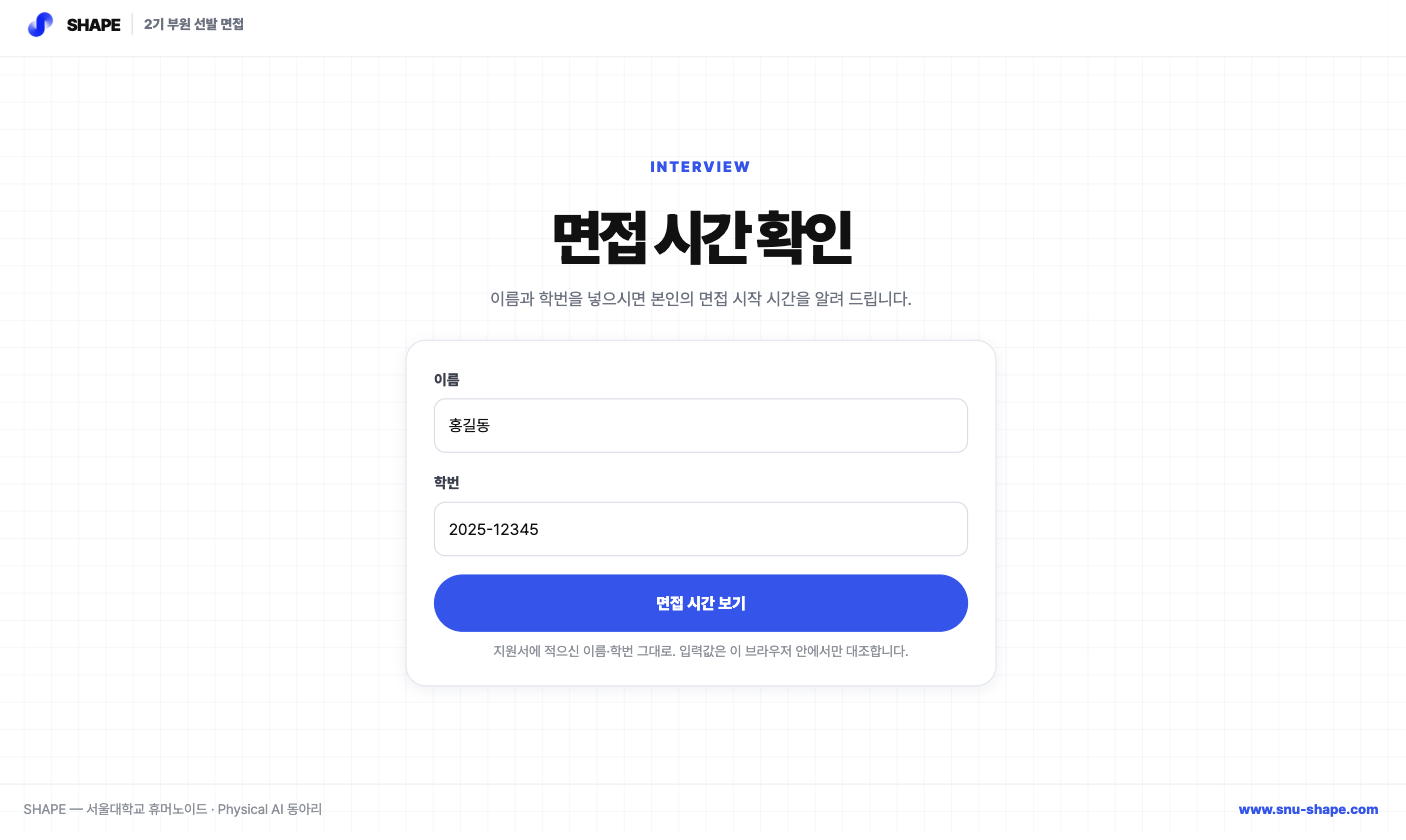
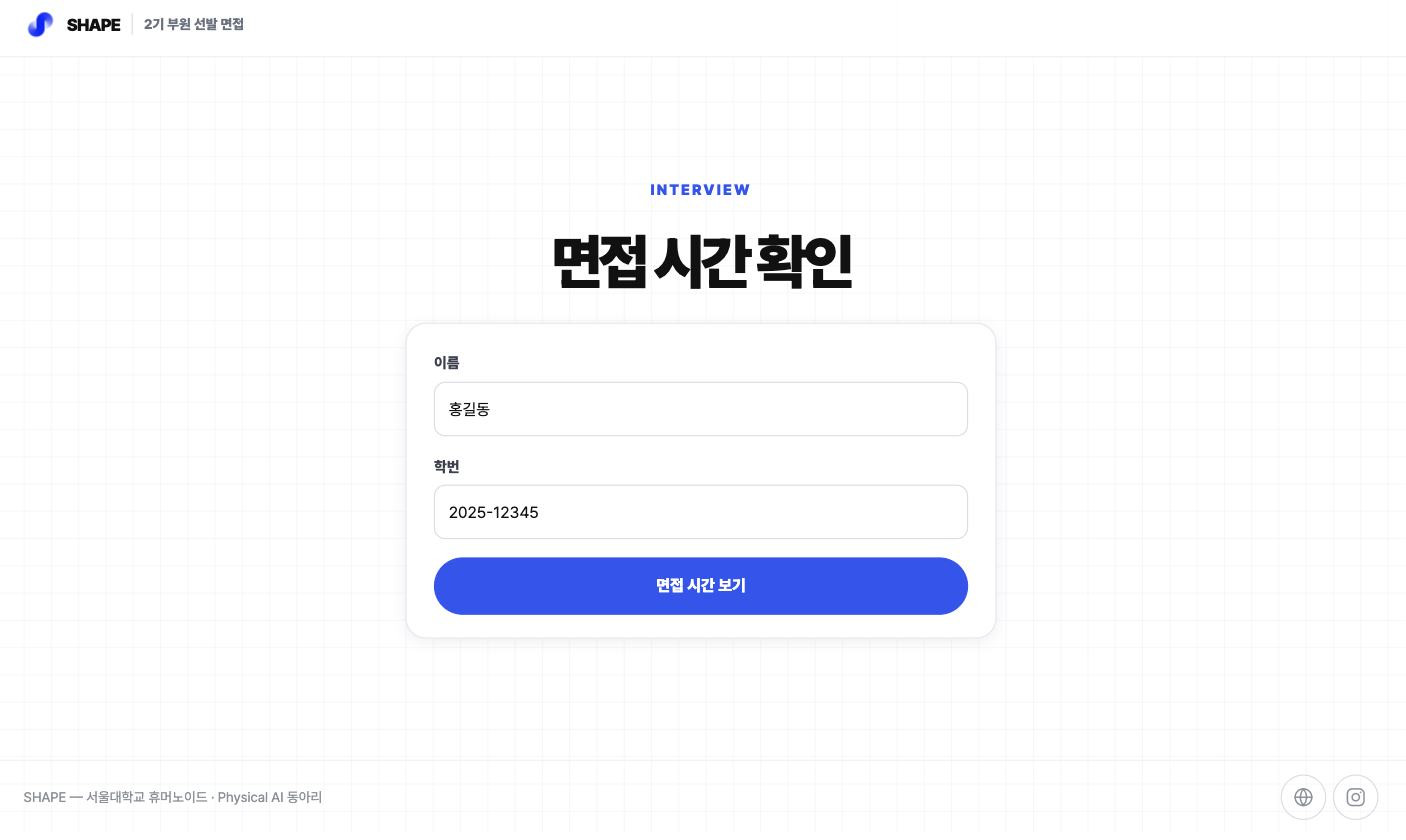
달력 저장을 문의하기로 바꾸고 바로가기 아이콘을 넣음
결과 카드의 "달력에 저장" 을 "문의하기" 로 바꿨다. 누르면 대화상자가 열려
snu.shape@gmail.com 으로 연락해 달라고 안내하고, 주소를 눌러 메일을 쓰거나
복사할 수 있다. 클립보드를 못 쓰는 환경에서는 주소를 선택해 두어 길게 눌러
복사하게 했다. 시간이 잡히지 않은 사람과 명단에서 못 찾은 사람에게도 같은
버튼을 붙였다 — 그 두 화면이 원래 연락을 요청하던 자리다.

.ics 를 만들던 코드(utcStamp, RFC 5545 줄 접기, saveIcs)는 전부 지웠다.

꼬리글에 SHAPE 웹사이트와 인스타그램 바로가기를 선 아이콘으로 넣었다. 인스타
주소에 붙어 있던 igsh 공유 추적 토큰은 뺐다. 디자인 규칙상 이모지를 아이콘으로
쓰지 않으므로 SVG 로 그렸다.

머리말의 "이름과 학번을 넣으시면…" 과 입력칸 아래 "지원서에 적으신 이름·학번
그대로…" 두 문구는 지웠다.

고친 것: 결과 카드에 제목 아래 여백이 없어 "면접 시간 확인" 을 덮고 있었다.
입력칸과 같은 margin-top 을 주고, 세로가 짧아질 때도 둘이 같이 줄게 했다.

13가지 크기에서 다시 확인했다. 세로가 짧아진 꼬리글 때문에 가로로 눕힌
740x360 의 넘침이 20px 에서 39px 로 늘었고, 나머지는 그대로 0 이다.

diff --git a/assets/app.js b/assets/app.js
@@ -11,8 +11,8 @@
   'use strict';
 
   var PLACE = '서울대학교 44-1동 401-1호';
+  var MAIL = 'snu.shape@gmail.com';
   var ARRIVE_EARLY = 10; // 분
-  var CAL_MINUTES = 30;  // 달력에 넣을 때만 쓰는 길이
 
   var DB = window.SHAPE_SCHEDULE;
   var form = document.getElementById('lookup');
@@ -21,6 +21,7 @@
   var errEl = document.getElementById('formError');
   var btn = document.getElementById('submitBtn');
   var out = document.getElementById('result');
+  var dialog = document.getElementById('contactDialog');
   var enc = new TextEncoder();
   var busy = false;
 
@@ -102,7 +103,11 @@
     return /[가-힣]/.test(v) && !/[A-Za-z]/.test(v) ? v.replace(/\s+/g, '') : v;
   }
 
-  var AGAIN = '<button type="button" class="button secondary" id="againBtn">다시 조회</button>';
+  var ACTIONS =
+    '<div class="result-actions">' +
+      '<button type="button" class="button secondary" id="contactBtn">문의하기</button>' +
+      '<button type="button" class="button secondary" id="againBtn">다시 조회</button>' +
+    '</div>';
 
   /** 입력칸을 감추고 그 자리에 결과를 놓습니다. */
   function show(html) {
@@ -112,8 +117,8 @@
     out.setAttribute('tabindex', '-1');
     out.focus({ preventScroll: true });      // 모바일 자판을 닫고 낭독기에 결과를 읽힙니다
     out.scrollIntoView({ block: 'nearest' }); // 세로가 아주 짧은 화면에 대한 보험
-    var again = document.getElementById('againBtn');
-    if (again) again.addEventListener('click', reset);
+    document.getElementById('againBtn').addEventListener('click', reset);
+    document.getElementById('contactBtn').addEventListener('click', openContact);
   }
 
   /** 다시 입력칸으로 돌아갑니다. */
@@ -141,20 +146,15 @@
       '<dl class="result-meta">' +
         '<div><dt>장소</dt><dd>' + PLACE + '</dd></div>' +
         '<div><dt>방식</dt><dd>다대다 면접</dd></div>' +
-      '</dl>' +
-      '<div class="result-actions">' +
-        '<button type="button" class="button secondary" id="icsBtn">달력에 저장</button>' + AGAIN +
-      '</div>'
+      '</dl>' + ACTIONS
     );
-    document.getElementById('icsBtn').addEventListener('click', function () { saveIcs(rec); });
   }
 
   function renderPending(name) {
     show(
       '<h2 class="result-title">' + esc(displayName(name)) + ' 님은 면접 시간을 조율 중입니다</h2>' +
       '<p class="result-body">주신 가능 시간으로는 일정이 잡히지 않아, 운영진이 따로 연락드릴 예정입니다. ' +
-      '지원서에 적어 주신 연락처를 확인해 주세요.</p>' +
-      '<div class="result-actions">' + AGAIN + '</div>'
+      '먼저 물어보실 것이 있으면 문의하기로 연락해 주세요.</p>' + ACTIONS
     );
   }
 
@@ -163,67 +163,56 @@
       '<h2 class="result-title">면접 대상자 명단에서 찾지 못했습니다</h2>' +
       '<p class="result-body">이름과 학번이 <b>지원서에 적으신 것과 한 글자라도 다르면</b> 찾지 못합니다. ' +
       '띄어쓰기와 학번의 하이픈은 무시하니, 이름의 글자와 학번 아홉 자리를 다시 확인해 주세요.</p>' +
-      '<p class="result-body">안내 메일을 받으셨는데도 조회되지 않으면 지원서에 적어 주신 연락처로 회신해 주세요.</p>' +
-      '<div class="result-actions">' + AGAIN + '</div>'
+      '<p class="result-body">안내 메일을 받으셨는데도 조회되지 않으면 문의하기로 연락해 주세요.</p>' + ACTIONS
     );
   }
 
-  /* ── 달력 파일 ─────────────────────────────────────────────────────── */
+  /* ── 문의 대화상자 ─────────────────────────────────────────────────── */
 
-  function utcStamp(dateStr, minutes) {
-    var p = dateStr.split('-');
-    var t = new Date(Date.UTC(+p[0], +p[1] - 1, +p[2], Math.floor(minutes / 60) - 9, minutes % 60));
-    return t.getUTCFullYear() + pad(t.getUTCMonth() + 1) + pad(t.getUTCDate()) + 'T' +
-           pad(t.getUTCHours()) + pad(t.getUTCMinutes()) + '00Z';
+  var copyBtn = document.getElementById('copyMailBtn');
+  var copyTimer = null;
+
+  function openContact() {
+    if (dialog.showModal) dialog.showModal();
+    else dialog.setAttribute('open', '');   // <dialog> 를 모르는 오래된 브라우저
   }
 
-  /** RFC 5545 는 한 줄을 75 옥텟에서 접으라고 합니다. 한글은 한 자가 3 옥텟이라
-   *  글자 수로 세면 금방 넘칩니다. */
-  function fold(line) {
-    if (enc.encode(line).length <= 75) return line;
-    var parts = [], buf = '', size = 0, limit = 75;
-    for (var ch of line) {
-      var n = enc.encode(ch).length;
-      if (size + n > limit) { parts.push(buf); buf = ' '; size = 1; limit = 74; }
-      buf += ch; size += n;
+  function closeContact() {
+    if (dialog.close) dialog.close();
+    else dialog.removeAttribute('open');
+  }
+
+  document.getElementById('closeDialogBtn').addEventListener('click', closeContact);
+
+  // 상자 바깥(뒤 배경)을 누르면 닫습니다. 배경은 dialog 자신이 받습니다.
+  dialog.addEventListener('click', function (e) {
+    if (e.target === dialog) closeContact();
+  });
+
+  dialog.addEventListener('close', function () {
+    clearTimeout(copyTimer);
+    copyBtn.textContent = '주소 복사';
+  });
+
+  copyBtn.addEventListener('click', function () {
+    function done(msg) {
+      copyBtn.textContent = msg;
+      clearTimeout(copyTimer);
+      copyTimer = setTimeout(function () { copyBtn.textContent = '주소 복사'; }, 2000);
     }
-    parts.push(buf);
-    return parts.join('\r\n');
-  }
-
-  function saveIcs(rec) {
-    var body = [
-      'BEGIN:VCALENDAR',
-      'VERSION:2.0',
-      'PRODID:-//SHAPE//interview//KO',
-      'CALSCALE:GREGORIAN',
-      'BEGIN:VEVENT',
-      // 지원자마다 다른 값이어야 해서 무작위로 만듭니다. 이름·학번은 쓰지 않습니다.
-      'UID:' + Date.now().toString(36) + Math.random().toString(36).slice(2, 8) + '@snu-shape.com',
-      'DTSTAMP:' + utcStamp(rec.d, rec.t),
-      'DTSTART:' + utcStamp(rec.d, rec.t),
-      'DTEND:' + utcStamp(rec.d, rec.t + CAL_MINUTES),
-      'SUMMARY:SHAPE 2기 면접',
-      'LOCATION:' + PLACE,
-      'DESCRIPTION:시작 ' + ARRIVE_EARLY + '분 전까지 도착해 주세요.',
-      'BEGIN:VALARM',
-      'TRIGGER:-PT30M',
-      'ACTION:DISPLAY',
-      'DESCRIPTION:SHAPE 2기 면접',
-      'END:VALARM',
-      'END:VEVENT',
-      'END:VCALENDAR'
-    ].map(fold).join('\r\n');
-
-    var url = URL.createObjectURL(new Blob([body], { type: 'text/calendar;charset=utf-8' }));
-    var a = document.createElement('a');
-    a.href = url;
-    a.download = 'shape-interview.ics';
-    document.body.appendChild(a);
-    a.click();
-    document.body.removeChild(a);
-    setTimeout(function () { URL.revokeObjectURL(url); }, 1000);
-  }
+    if (navigator.clipboard && navigator.clipboard.writeText) {
+      navigator.clipboard.writeText(MAIL).then(function () { done('복사했습니다'); },
+                                              function () { done('직접 복사해 주세요'); });
+    } else {
+      // 클립보드를 못 쓰는 환경에서는 주소를 선택해 두어 길게 눌러 복사하게 합니다.
+      var range = document.createRange();
+      range.selectNodeContents(document.querySelector('.contact-mail'));
+      var sel = window.getSelection();
+      sel.removeAllRanges();
+      sel.addRange(range);
+      done('길게 눌러 복사');
+    }
+  });
 
   /* ── 조회 ──────────────────────────────────────────────────────────── */
 

diff --git a/assets/app.css b/assets/app.css
@@ -56,17 +56,14 @@
   line-height: var(--sh-font-leading-tight);
   letter-spacing: var(--sh-font-tracking-display);
 }
-.stage-lead {
-  margin: var(--sh-space-6) 0 0;
-  color: var(--sh-color-ink-500);
-  font-size: var(--sh-font-size-body-lg);
-  line-height: var(--sh-font-leading-normal);
-}
+
 
 /* ── 입력 ───────────────────────────────────────────────────────────── */
 
+/* 제목 아래 간격은 입력칸과 결과가 같아야 합니다 — 둘이 같은 자리를 씁니다. */
+.lookup-card, .result { margin-top: var(--sh-space-11); }
+
 .lookup-card {
-  margin-top: var(--sh-space-11);
   padding: var(--sh-space-11) var(--sh-space-11) var(--sh-space-10);
   display: grid;
   gap: var(--sh-space-8);
@@ -77,7 +74,6 @@
 }
 .lookup-card[hidden] { display: none; }
 .lookup-card .field input { height: 48px; }
-.lookup-foot { margin-top: calc(-1 * var(--sh-space-4)); text-align: center; }
 
 /* ── 결과 ───────────────────────────────────────────────────────────── */
 
@@ -170,7 +166,48 @@
   color: var(--sh-color-ink-400);
   font-size: var(--sh-font-size-small);
 }
-.page-footer a { color: var(--sh-color-brand-blue); font-weight: var(--sh-font-weight-heavy); }
+.footer-text { align-self: center; }
+.footer-links { display: flex; gap: var(--sh-space-3); }
+
+/* 이모지 대신 선 아이콘. 누를 것이라 좁은 화면에서도 40px 아래로 내리지 않습니다. */
+.icon-link {
+  width: 40px;
+  height: 40px;
+  display: grid;
+  place-items: center;
+  color: var(--sh-color-ink-400);
+  border: 1px solid var(--sh-color-line-base);
+  border-radius: var(--sh-radius-pill);
+  transition: color var(--sh-motion-duration-fast) var(--sh-motion-easing-standard),
+              border-color var(--sh-motion-duration-fast) var(--sh-motion-easing-standard),
+              background var(--sh-motion-duration-fast) var(--sh-motion-easing-standard);
+}
+.icon-link:hover {
+  color: var(--sh-color-brand-blue);
+  background: var(--sh-color-surface-blue);
+  border-color: var(--sh-color-brand-blue);
+}
+
+/* ── 문의 대화상자 ──────────────────────────────────────────────────── */
+
+/* .dialog 는 shape-kit.css 것을 그대로 씁니다. 680px 아래에서 아래쪽에 붙는
+   시트로 바뀌는 것까지 키트에 들어 있습니다. */
+.contact-body { margin: 0; color: var(--sh-color-ink-500); font-size: var(--sh-font-size-body-sm); line-height: var(--sh-font-leading-loose); }
+.contact-mail {
+  margin-top: var(--sh-space-9);
+  display: block;
+  padding: var(--sh-space-8);
+  color: var(--sh-color-brand-blue);
+  background: var(--sh-color-surface-blue);
+  border-radius: var(--sh-radius-md);
+  font-size: var(--sh-font-size-title-sm);
+  font-weight: var(--sh-font-weight-black);
+  letter-spacing: var(--sh-font-tracking-card);
+  text-align: center;
+  word-break: break-all;
+}
+.contact-actions { margin-top: var(--sh-space-10); display: flex; gap: var(--sh-space-5); }
+.contact-actions .button { flex: 1 1 0; }
 
 /* ── 좁은 화면 ──────────────────────────────────────────────────────── */
 
@@ -183,12 +220,12 @@
 }
 
 /* 세로가 짧은 화면(가로로 눕힌 휴대전화, 작은 노트북)에서는 큰 글자부터 줄입니다.
-   순서대로 제목 → 소개 → 여백 → 입력칸 높이를 깎습니다. */
+   순서대로 제목 → 여백 → 입력칸 높이를 깎습니다. */
 @media (max-height: 700px) {
   .stage { padding-block: var(--sh-space-6); }
   .stage-title { font-size: clamp(28px, 6vw, 38px); }
-  .stage-lead { margin-top: var(--sh-space-4); font-size: var(--sh-font-size-body-sm); }
-  .lookup-card { margin-top: var(--sh-space-9); gap: var(--sh-space-6); }
+  .lookup-card, .result { margin-top: var(--sh-space-9); }
+  .lookup-card { gap: var(--sh-space-6); }
   .result { padding: var(--sh-space-10); }
   .result-time { font-size: clamp(44px, 12vw, 62px); }
   .result-date { margin-top: var(--sh-space-7); }
@@ -199,7 +236,7 @@
 
 @media (max-height: 620px) {
   .intro { display: none; }
-  .lookup-card { margin-top: 0; }
+  .lookup-card, .result { margin-top: 0; }
 }
 
 /* 휴대전화를 가로로 눕힌 정도. 여기서는 남는 여백이 없어서 안내 문구까지 접습니다. */
@@ -208,7 +245,6 @@
   .stage { padding-block: var(--sh-space-5); }
   .lookup-card { padding: var(--sh-space-9); gap: var(--sh-space-5); }
   .lookup-card .field input { height: 42px; }
-  .lookup-foot { display: none; }
   .result { padding: var(--sh-space-9); }
   .result-date { margin-top: var(--sh-space-5); }
   .result-time { font-size: 40px; }
@@ -220,6 +256,8 @@
 
 @media (max-height: 400px) {
   .page-header { padding-block: var(--sh-space-3); }
+  .page-footer { padding-block: var(--sh-space-2); }
+  .footer-text { display: none; }
   .result { padding: var(--sh-space-8); }
   .result-date { margin-top: var(--sh-space-4); }
   .result-time { font-size: 32px; }

diff --git a/index.html b/index.html
@@ -32,7 +32,6 @@
       <div id="intro" class="intro">
         <p class="sh-eyebrow">INTERVIEW</p>
         <h1 class="stage-title">면접 시간 확인</h1>
-        <p class="stage-lead">이름과 학번을 넣으시면 본인의 면접 시작 시간을 알려 드립니다.</p>
       </div>
 
       <form id="lookup" class="lookup-card" novalidate>
@@ -49,7 +48,6 @@
         </div>
         <p class="form-note error" id="formError" role="alert" hidden></p>
         <button class="button block" id="submitBtn" type="submit">면접 시간 보기</button>
-        <p class="form-note lookup-foot">지원서에 적으신 이름·학번 그대로. 입력값은 이 브라우저 안에서만 대조합니다.</p>
       </form>
 
       <div id="result" class="result" hidden></div>
@@ -57,9 +55,39 @@
     </div>
   </main>
 
+  <dialog id="contactDialog" class="dialog contact-dialog">
+    <h2>문의하기</h2>
+    <p class="contact-body">면접 일정에 관해 궁금한 점이 있거나 시간을 조정하셔야 하면
+      아래 주소로 연락해 주세요.</p>
+    <a class="contact-mail" href="mailto:snu.shape@gmail.com">snu.shape@gmail.com</a>
+    <div class="contact-actions">
+      <button type="button" class="button secondary" id="copyMailBtn">주소 복사</button>
+      <button type="button" class="button" id="closeDialogBtn" autofocus>닫기</button>
+    </div>
+  </dialog>
+
   <footer class="page-footer">
-    <span>SHAPE — 서울대학교 휴머노이드 · Physical AI 동아리</span>
-    <a href="https://www.snu-shape.com" rel="noopener">www.snu-shape.com</a>
+    <span class="footer-text">SHAPE — 서울대학교 휴머노이드 · Physical AI 동아리</span>
+    <nav class="footer-links" aria-label="바로가기">
+      <a class="icon-link" href="https://www.snu-shape.com" target="_blank" rel="noopener"
+         title="SHAPE 웹사이트" aria-label="SHAPE 웹사이트 (새 탭에서 열림)">
+        <svg viewBox="0 0 24 24" width="19" height="19" fill="none" stroke="currentColor"
+             stroke-width="1.7" stroke-linecap="round" stroke-linejoin="round" aria-hidden="true">
+          <circle cx="12" cy="12" r="9.25"/>
+          <path d="M2.75 12h18.5"/>
+          <path d="M12 2.75a14.5 14.5 0 0 1 3.6 9.25 14.5 14.5 0 0 1-3.6 9.25 14.5 14.5 0 0 1-3.6-9.25A14.5 14.5 0 0 1 12 2.75z"/>
+        </svg>
+      </a>
+      <a class="icon-link" href="https://www.instagram.com/snu_shape" target="_blank" rel="noopener"
+         title="SHAPE 인스타그램" aria-label="SHAPE 인스타그램 (새 탭에서 열림)">
+        <svg viewBox="0 0 24 24" width="19" height="19" fill="none" stroke="currentColor"
+             stroke-width="1.7" stroke-linecap="round" stroke-linejoin="round" aria-hidden="true">
+          <rect x="2.75" y="2.75" width="18.5" height="18.5" rx="5.5"/>
+          <circle cx="12" cy="12" r="4"/>
+          <path d="M17.4 6.6h.01"/>
+        </svg>
+      </a>
+    </nav>
   </footer>
 
 </div>

diff --git a/README.md b/README.md
@@ -29,7 +29,7 @@ SHAPE 2기 부원 선발 면접 대상자 53명에게 개인별 시간을 알리
 | 1 | 지원자가 이름과 학번을 입력함 |
 | 2 | 브라우저가 `PBKDF2-HMAC-SHA256(이름\|학번, salt, 30만 회)` 로 조회 키를 만듦 |
 | 3 | `assets/schedule.js` 의 키 표에서 그 키를 찾음 |
-| 4 | 찾으면 날짜·시작 시각·도착 권장 시각·장소를 보여 주고, `.ics` 로 달력에 넣을 수 있음 |
+| 4 | 찾으면 날짜·시작 시각·도착 권장 시각·장소를 보여 주고, 문의처를 함께 안내함 |
 | 5 | 시간이 아직 안 잡힌 사람은 "개별 조율 중" 안내, 없는 사람은 다시 확인하라는 안내 |
 
 입력값은 서버로 가지 않음. 백엔드가 없고, 네트워크 요청 자체를 하지 않음.
@@ -58,7 +58,7 @@ flowchart LR
 
 ```
 index.html                  한 장짜리 화면
-assets/app.js               조회 · 결과 그리기 · .ics 만들기
+assets/app.js               조회 · 결과 그리기 · 문의 대화상자
 assets/app.css              이 페이지에만 필요한 스타일
 assets/shape-kit.css        SHAPE 디자인 키트 (sesepark/shape-web-design 사본)
 assets/schedule.js          생성물. 조회 키 표
@@ -101,10 +101,10 @@ tools/build_schedule.py     명단 → 키 표
   자판이 올라온 채로 스크롤을 해야 시간이 보임. 그래서 결과가 입력칸 **자리를 대신하게**
   했음(`form.hidden` ↔ `result.hidden`). 세로 배치는 `100svh` 기준이고, 가운데 정렬은
   `align-items:center` 가 아니라 `margin:auto` 로 했음 — 내용이 화면보다 길어질 때
-  전자는 위쪽을 잘라 버리기 때문임. 세로가 짧아지는 순서대로 제목 → 소개 문단 →
-  여백 → 입력칸 높이를 깎는 분기(`700px`·`620px`·`480px`·`400px`)를 뒀음.
+  전자는 위쪽을 잘라 버리기 때문임. 세로가 짧아지는 순서대로 제목 → 여백 →
+  입력칸 높이 → 꼬리글을 깎는 분기(`700px`·`620px`·`480px`·`400px`)를 뒀음.
   320×568 부터 1920×1080 까지 13가지 크기에서 **입력 화면과 결과 화면 모두 스크롤이
-  생기지 않는 것**을 확인했고, 휴대전화를 가로로 눕힌 740×360 에서만 20px 넘침.
+  생기지 않는 것**을 확인했고, 휴대전화를 가로로 눕힌 740×360 에서만 39px 넘침.
 
 - **디자인은 새로 짓지 않고 키트를 그대로 씀** — 색·글자·모서리·그림자를 임의로 정하면
   같은 동아리의 다른 화면과 어긋남. `sesepark/shape-web-design` 의 `shape-kit.css` 를
